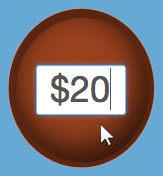
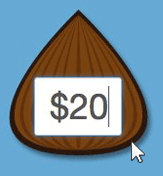
UX review revisions

diff --git a/app/assets/stylesheets/welcome.css.scss b/app/assets/stylesheets/welcome.css.scss
@@ -12,16 +12,15 @@ div#header {
 
 div#seed {
   width: 700px;
-  height: 60px;
-  margin: 15px auto;
-  padding: 60px;
+  height: 40px;
+  margin: 5px auto;
+  padding: 72px;
   background: url('seed.png') no-repeat top center;
 }
 
 div#seed form {
-  display: block;
-  width: 584px;
-  margin: 0 auto;
+  width: 700px;
+  padding: 10px 58px 0;
   font-weight: bold;
   font-size: 36px;
 }
@@ -37,14 +36,15 @@ div#seed span {
 
 div#seed form input#seed_amount {
   width: 80px;
-  height: 40px;
+  height: 50px;
   margin: 0 40px;
   font-size: 36px;
 }
 
 div#seed form input#submit {
-  margin-top: 7px;
-  margin-left: 7px;
+  margin-left: 12px;
+  font-weight: bold;
+  font-size: 24px;
 }
 
 div#walkthrough div.step_left {
